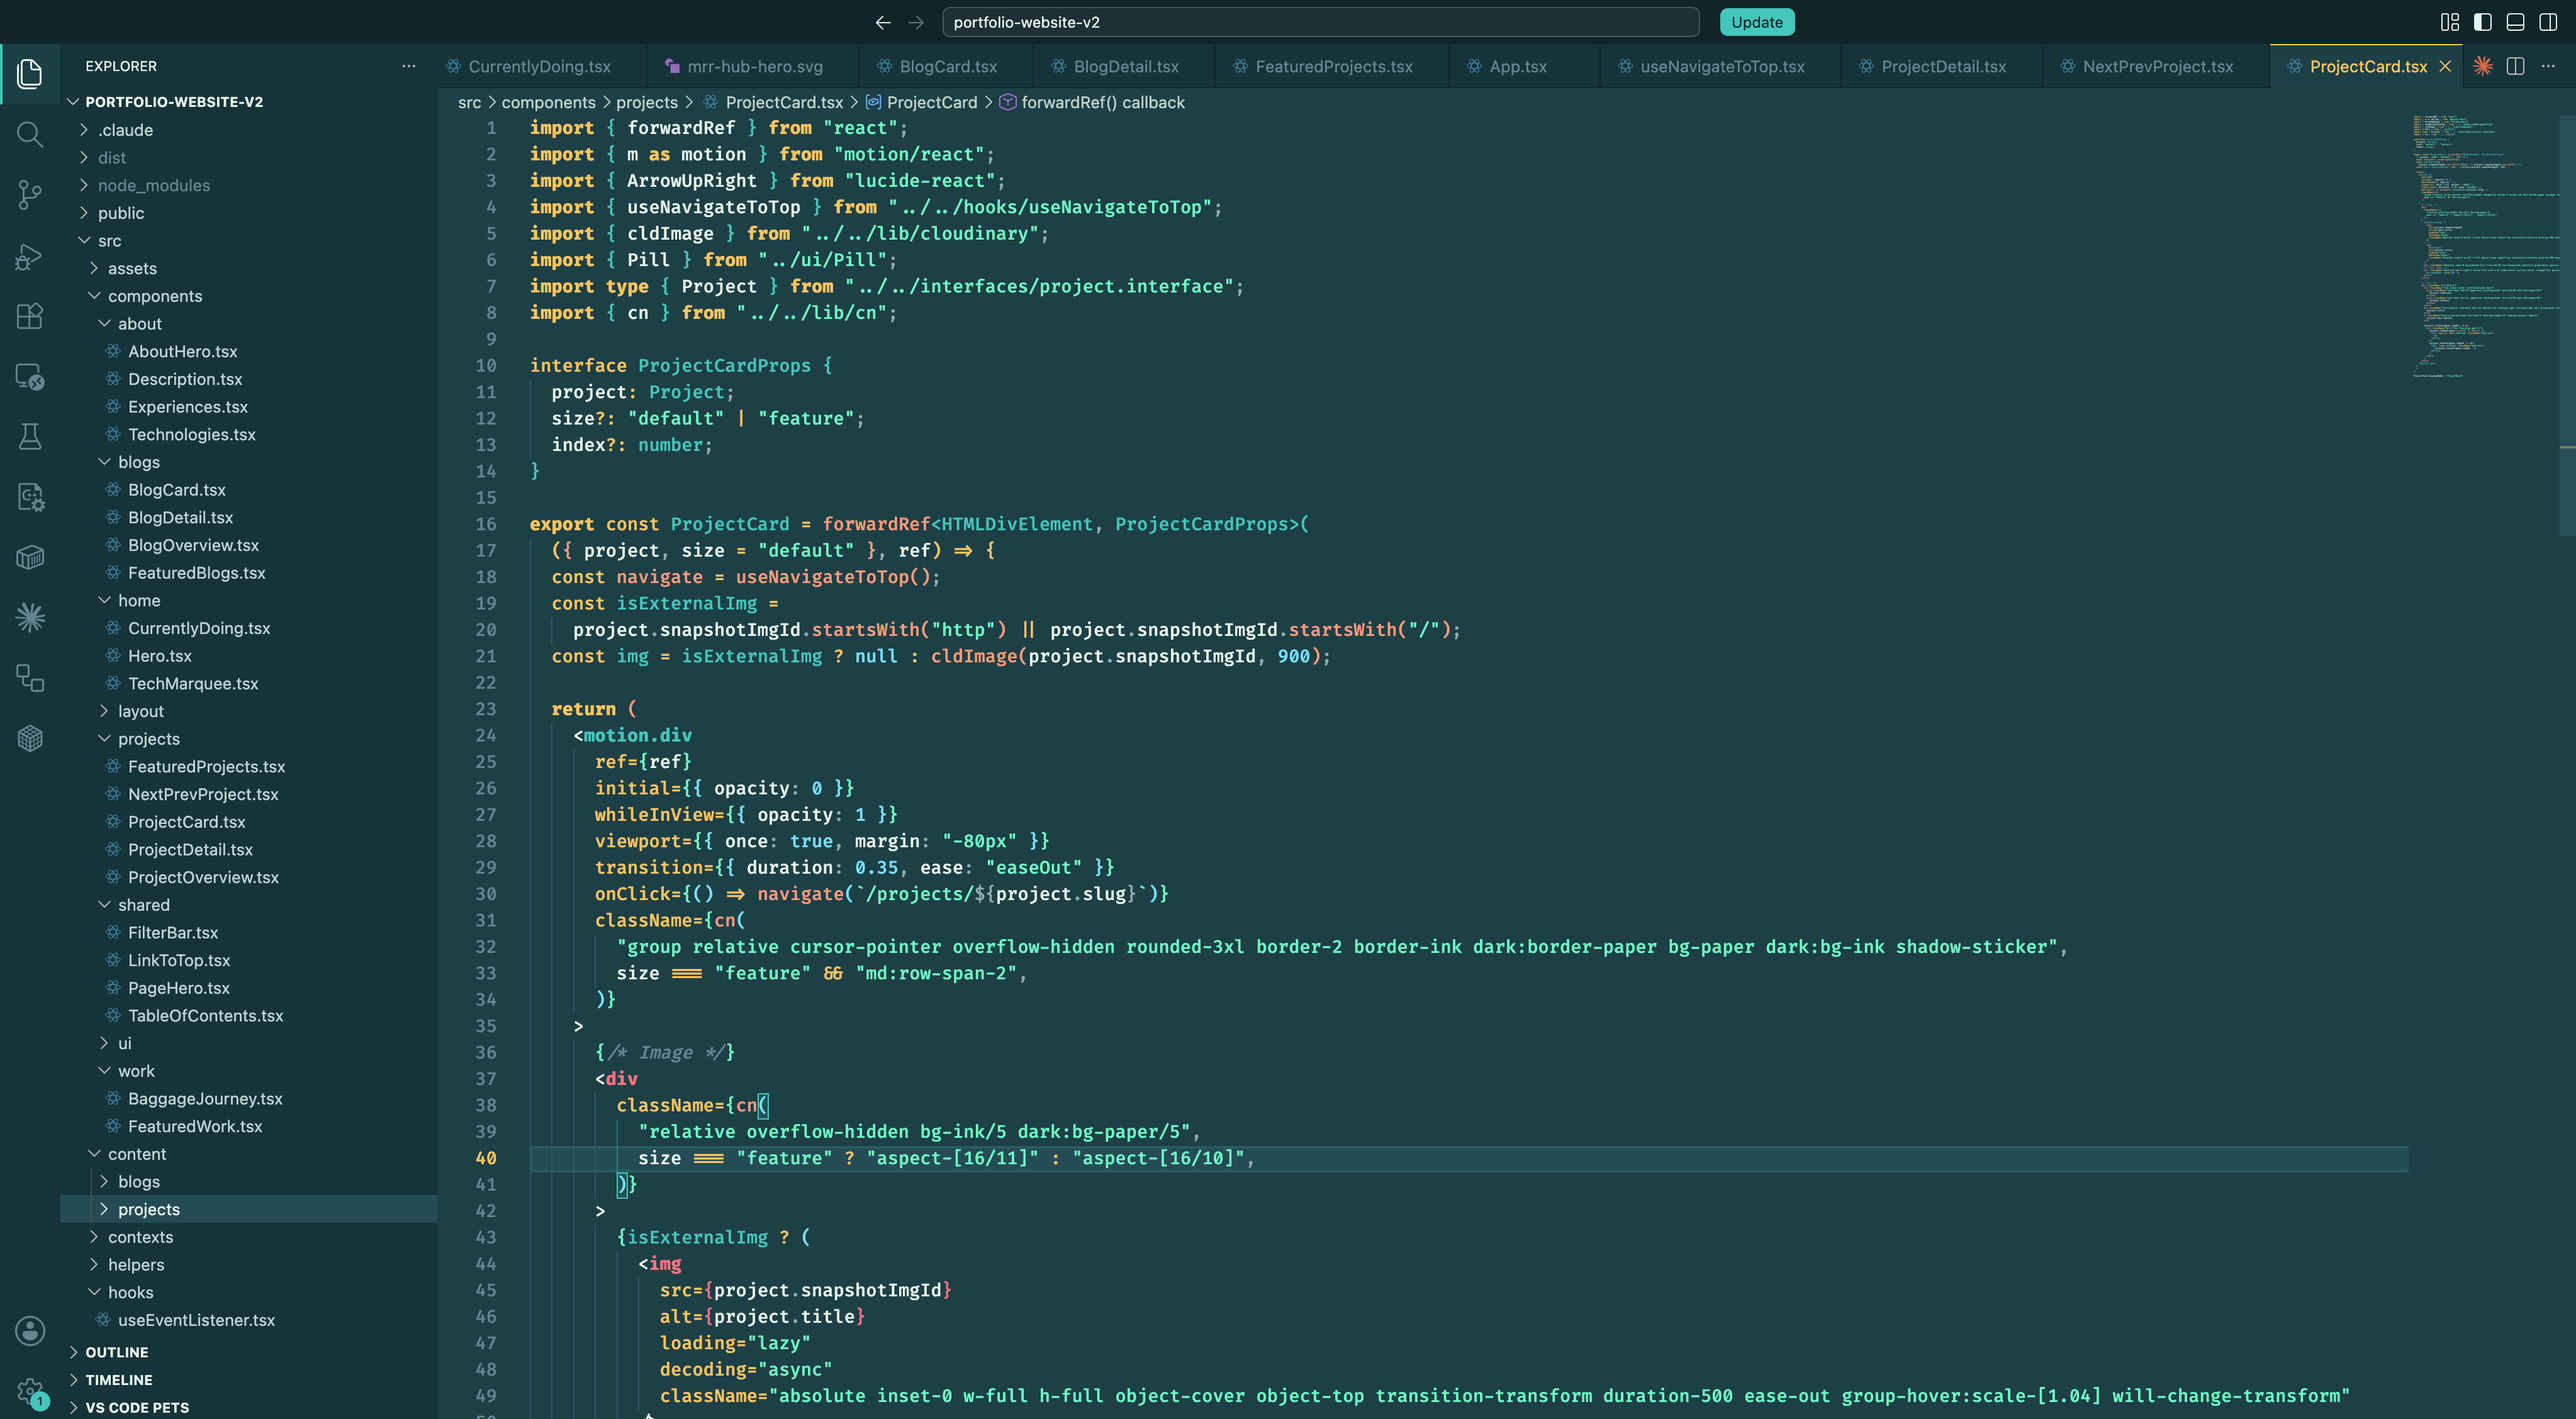
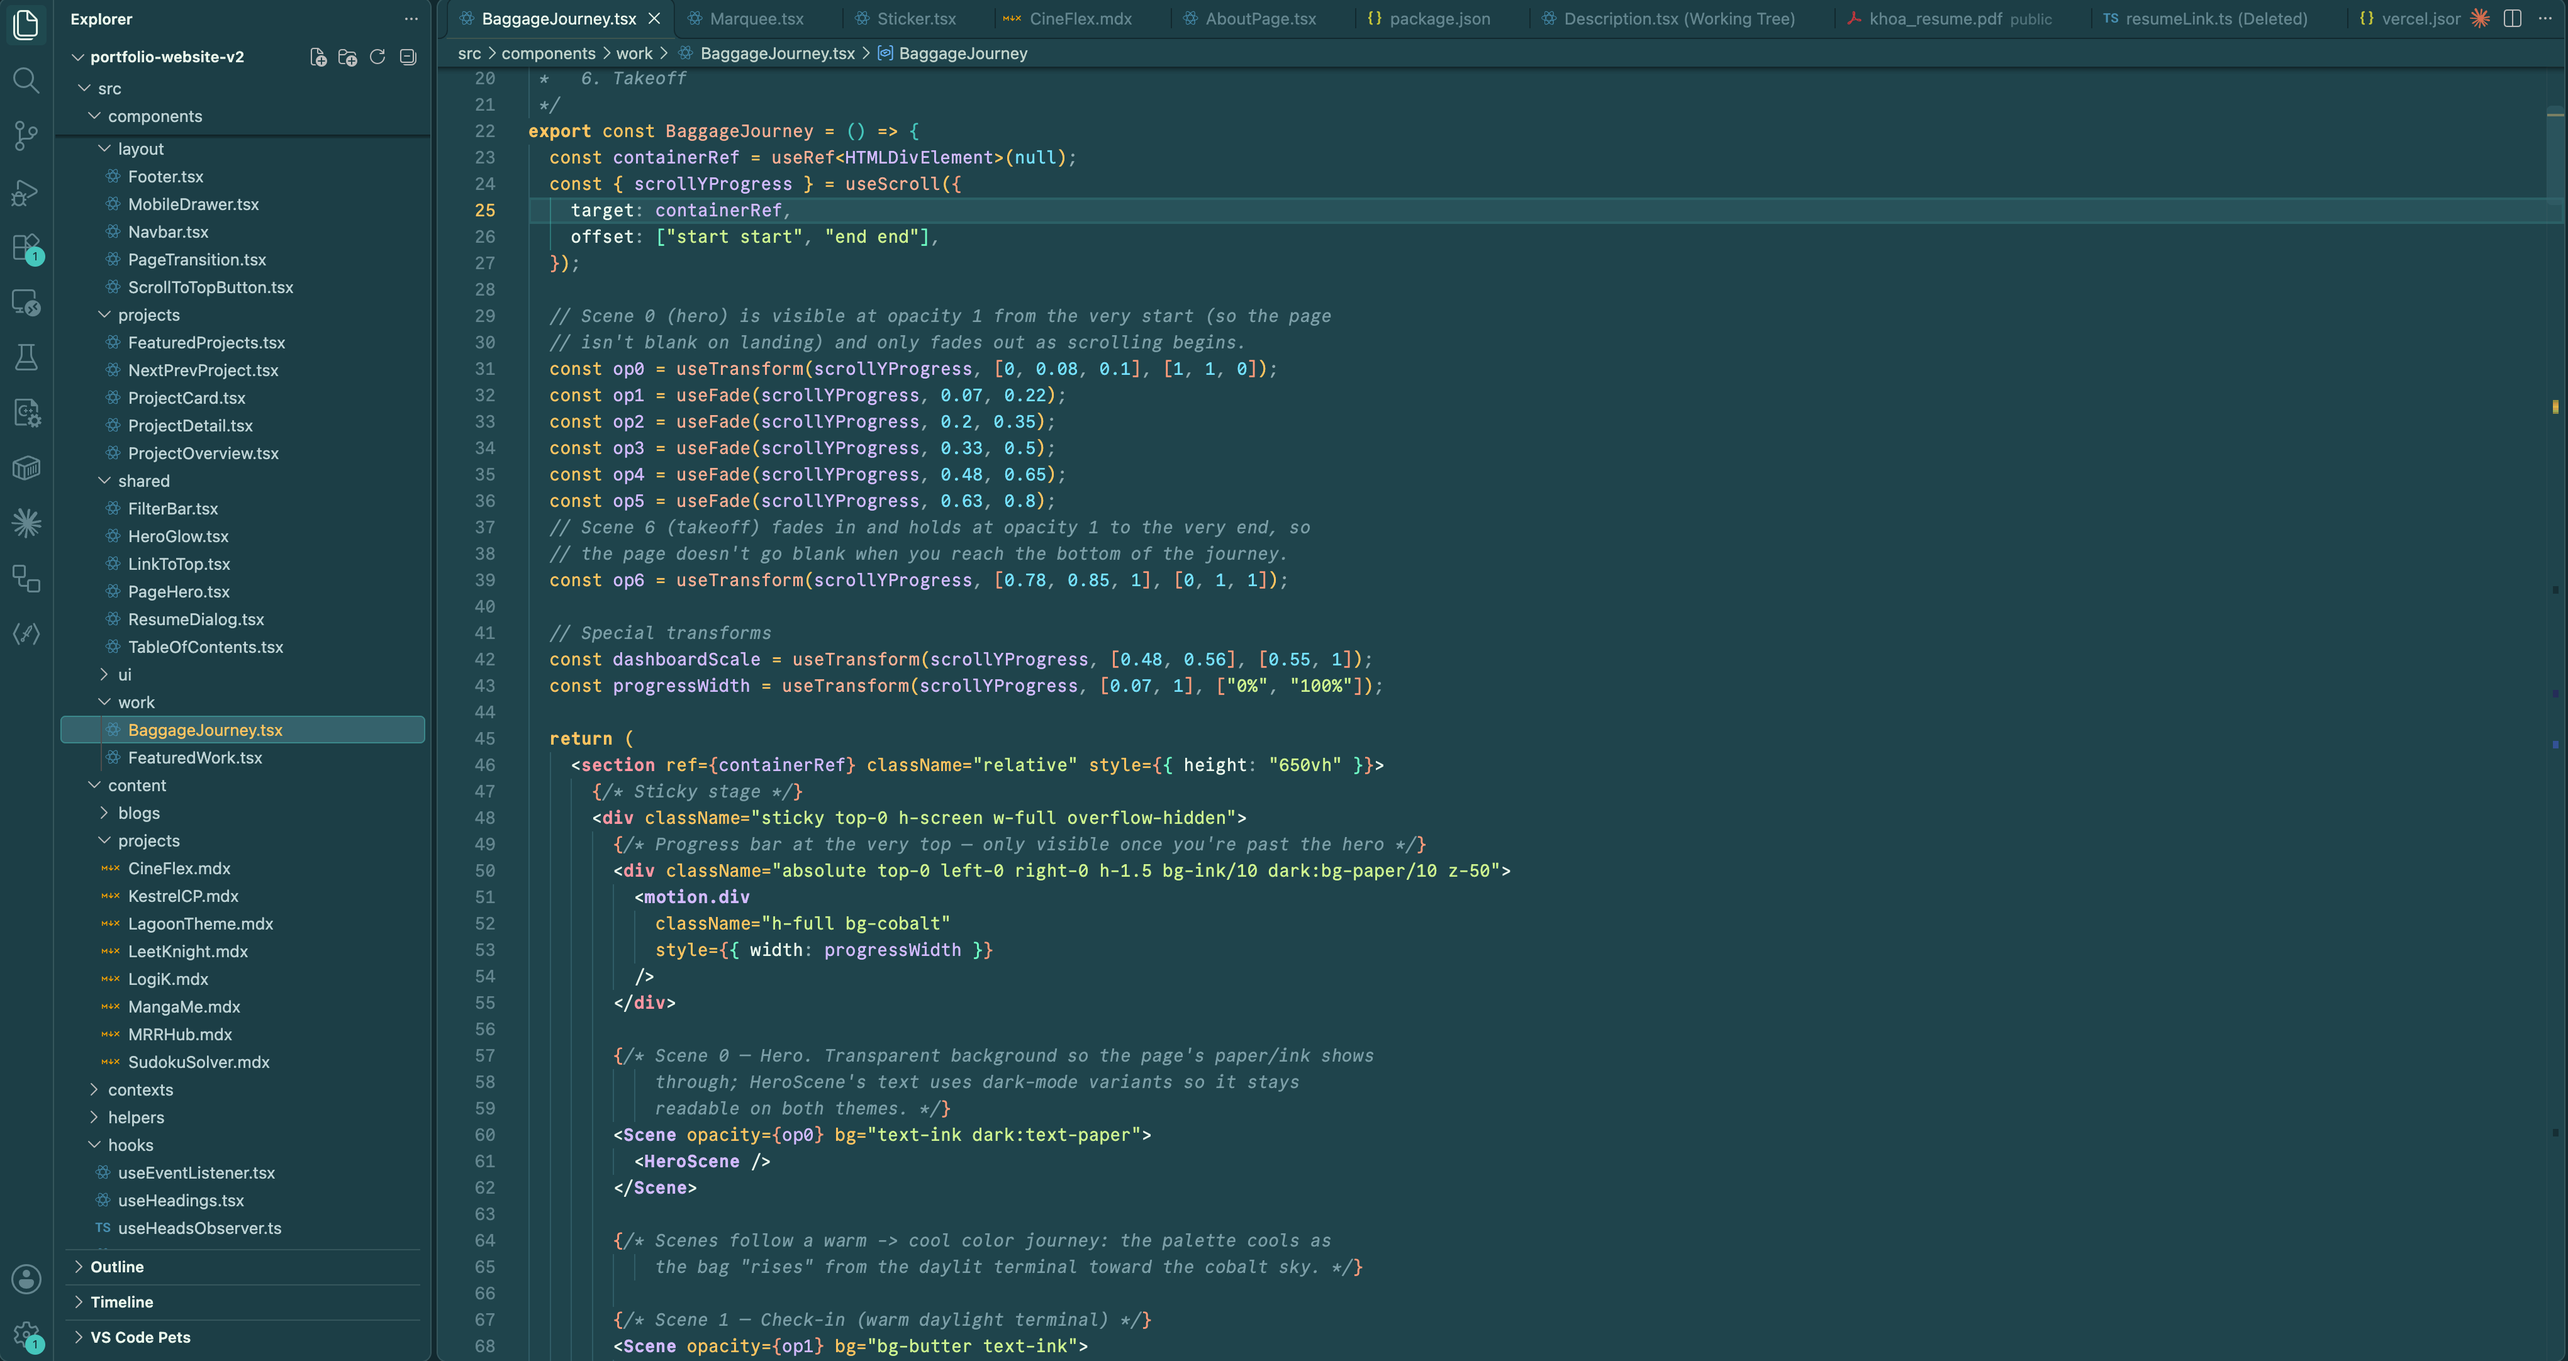
Add Lagoon Depths and Lagoon Dusk screenshots, refresh intro and Night shot
- Rewrite README intro: add Khoa's story (between dark and light themes)
- Add screenshots for Lagoon Depths and Lagoon Dusk
- Replace Lagoon Night screenshot with the lighter current theme

Changed region(s): [[0.0, 0.0, 1.0, 1.0], [0.2489, 0.774, 0.9023, 1.0], [0.4978, 0.5573, 0.5289, 0.5883]]

diff --git a/README.md b/README.md
@@ -4,8 +4,10 @@
 
 <h1 align="center">Lagoon Theme</h1>
 
-Hi there! 🌊
-I made Lagoon in five variants so you can pick whichever fits your day. **Lagoon Night** feels like quiet evenings by warm tropical water — gold keywords, coral functions, lime strings and lavender types drifting across atmospheric teal. **Lagoon Depths** takes the same palette out past the reef, into deeper ocean blue. **Lagoon Dusk** is the water just after sunset, under a soft indigo sky. **Lagoon Shore** keeps the warm palette on cream paper, for brighter desks. **Lagoon Tide** is the cool, crisp side of the water — snow-white backgrounds with indigo keywords, sea-green functions, ocean-blue types and warm terracotta strings. Hope you like it ^^
+Hi there! 🌊 I'm Khoa, and I've always wanted to make my own theme.
+I kept switching between dark and light themes and never felt quite right — dark ones were too heavy for long sessions, light ones too bright for my eyes. So I made Lagoon to sit right in between: not too dark, not too light. If you've been looking for the same thing, I hope it feels right for you too.
+
+It comes in five variants so you can pick whichever fits your day. **Lagoon Night** feels like quiet evenings by warm tropical water — gold keywords, coral functions, lime strings and lavender types drifting across atmospheric teal. **Lagoon Depths** takes the same palette out past the reef, into deeper ocean blue. **Lagoon Dusk** is the water just after sunset, under a soft indigo sky. **Lagoon Shore** keeps the warm palette on cream paper, for brighter desks. **Lagoon Tide** is the cool, crisp side of the water — snow-white backgrounds with indigo keywords, sea-green functions, ocean-blue types and warm terracotta strings. Hope you like it ^^
 
 ### Installation
 
@@ -18,6 +20,14 @@ I made Lagoon in five variants so you can pick whichever fits your day. **Lagoon
 **Lagoon Night**
 
 ![Lagoon Night](https://raw.githubusercontent.com/DNT-Khoa/lagoon-theme/main/media/lagoon-night-shot-1.png)
+
+**Lagoon Depths**
+
+![Lagoon Depths](https://raw.githubusercontent.com/DNT-Khoa/lagoon-theme/main/media/lagoon-depths-shot-1.png)
+
+**Lagoon Dusk**
+
+![Lagoon Dusk](https://raw.githubusercontent.com/DNT-Khoa/lagoon-theme/main/media/lagoon-dusk-shot-1.png)
 
 **Lagoon Shore**
 
